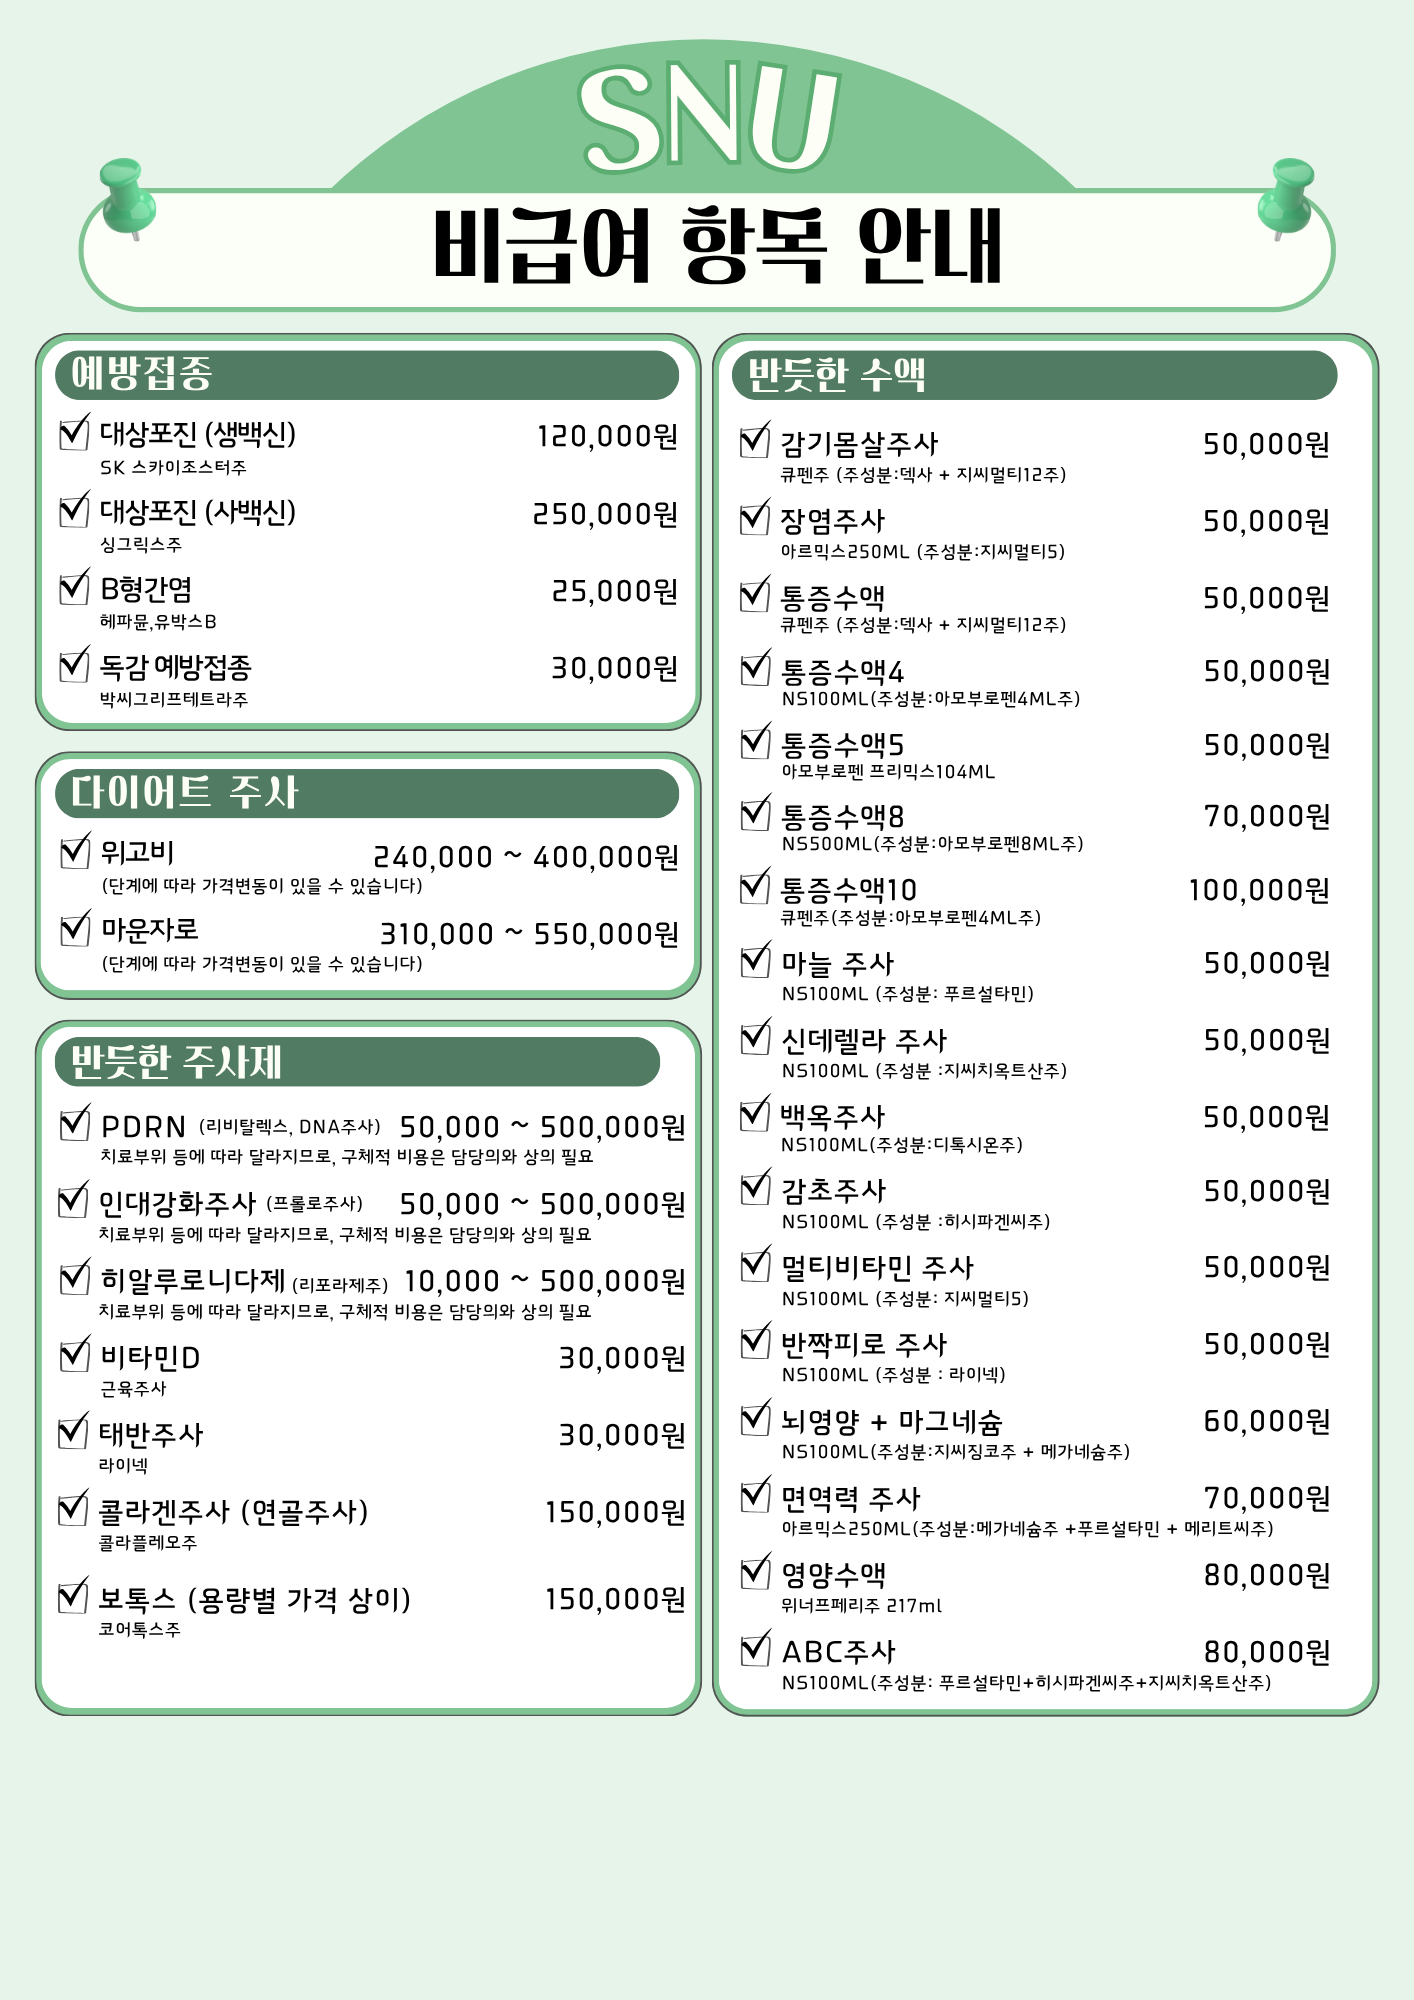
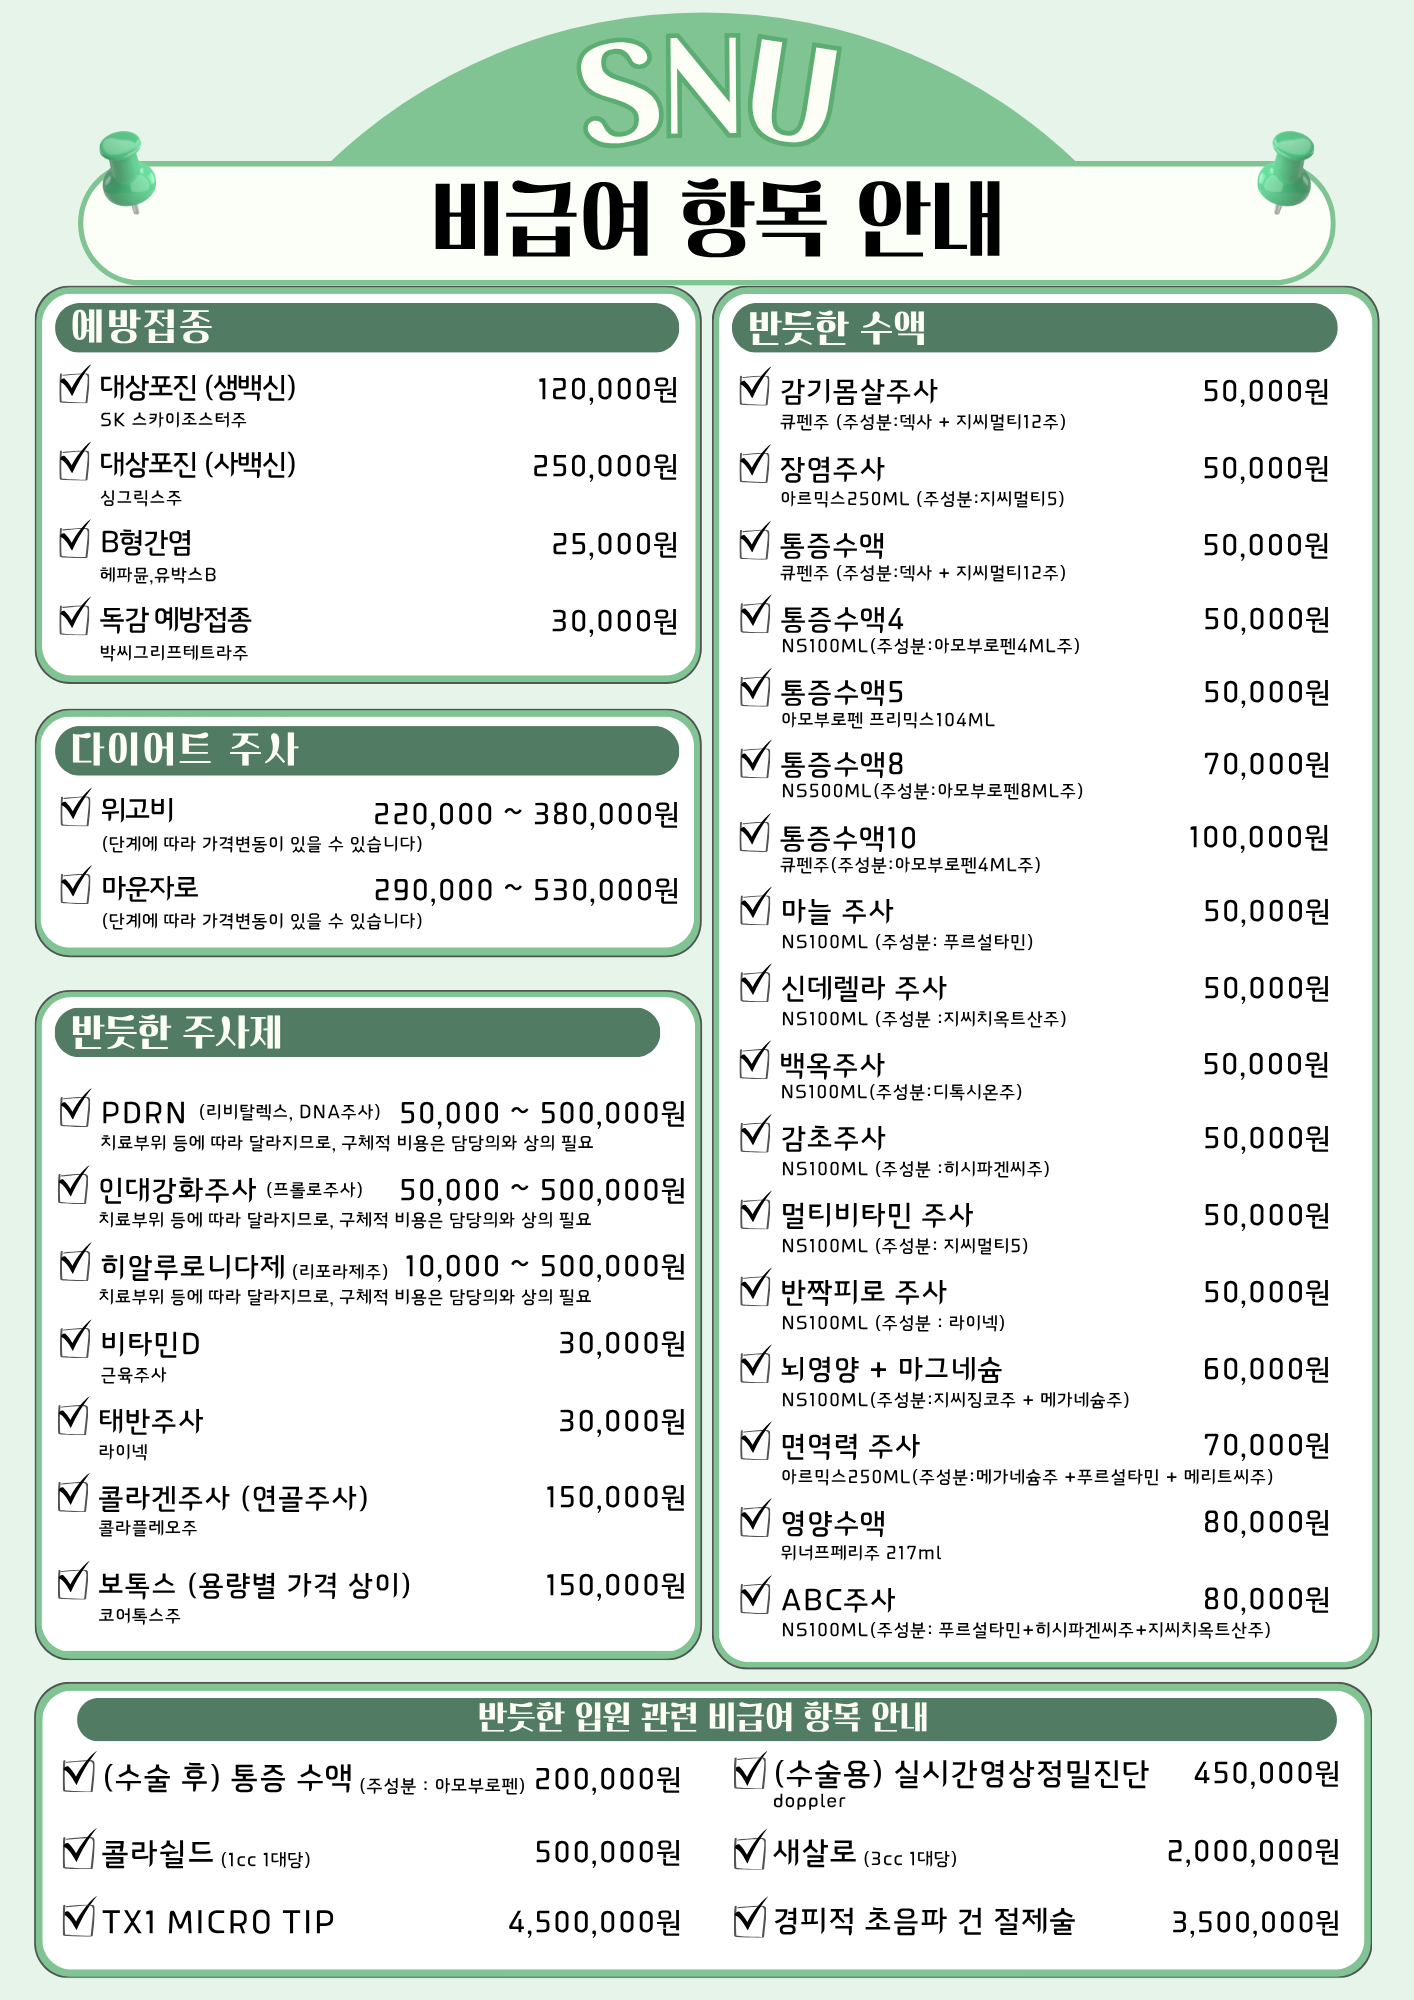
feat: 목 위생교육3 추가 + 서울대입구점 비급여항목안내 (2) 갱신
목 위생교육 슬라이더를 2장에서 3장으로 늘렸다(거북목 책상·의자 높이).
한/영 이미지 모두 받았다. 위생교육 그리드는 components/hygiene.html 과
components/stretch-guide.html 두 곳에 중복되어 있어 양쪽 다 고쳤다.
한쪽만 고치면 스트레칭 가이드에서는 3번째 장이 안 나온다.

서울대입구점 비급여항목안내 (2) 한글판을 갱신했다.
  위고비    240,000~400,000 -> 220,000~380,000
  마운자로  310,000~550,000 -> 290,000~530,000
  "반듯한 입원 관련 비급여 항목 안내" 6개 항목 신설

주의: 같은 장의 영문판(en/)은 아직 옛 가격이다. 영어로 보면 위고비·마운자로가
인하 전 금액으로 뜨고 입원 항목은 아예 없다. 영문판 교체가 필요하다.

BANNER_VER 20260828e -> 20260914.

diff --git a/components/stretch-guide.html b/components/stretch-guide.html
@@ -17,7 +17,7 @@
   <img class="stretch-banner" src="위생교육 배너.png" data-img="위생교육 배너.png" alt="위생교육 배너" loading="lazy">
 
   <div class="nav-buttons" id="hygieneGrid">
-    <div class="nav-item"><button class="nav-btn" data-ko="목 위생교육" data-en="Neck Health Education" data-i18n="true" onclick="openSliderViewer(this, this.textContent.trim(), ['목 위생교육.png','목 위생교육2.png'])">목 위생교육</button></div>
+    <div class="nav-item"><button class="nav-btn" data-ko="목 위생교육" data-en="Neck Health Education" data-i18n="true" onclick="openSliderViewer(this, this.textContent.trim(), ['목 위생교육.png','목 위생교육2.png','목 위생교육3.png'])">목 위생교육</button></div>
     <div class="nav-item"><button class="nav-btn" data-ko="무릎 위생교육" data-en="Knee Health Education" data-i18n="true" onclick="openSliderViewer(this, this.textContent.trim(), ['무릎 위생교육.png','무릎 위생교육2.png','무릎 위생교육3.png'])">무릎 위생교육</button></div>
     <div class="nav-item"><button class="nav-btn" data-ko="발 위생교육" data-en="Foot Health Education" data-i18n="true" onclick="openSliderViewer(this, this.textContent.trim(), ['발 위생교육.png','발 위생교육2.png'])">발 위생교육</button></div>
     <div class="nav-item"><button class="nav-btn" data-ko="팔꿈치 위생교육" data-en="Elbow Health Education" data-i18n="true" onclick="openSliderViewer(this, this.textContent.trim(), ['팔꿈치 위생교육.png','팔꿈치 위생교육2.png','팔꿈치 위생교육3.png'])">팔꿈치 위생교육</button></div>

diff --git a/components/hygiene.html b/components/hygiene.html
@@ -2,7 +2,7 @@
   <img class="stretch-banner" src="위생교육 배너.png" data-img="위생교육 배너.png" alt="위생교육 배너" loading="lazy">
 
   <div class="nav-buttons" id="hygieneGrid">
-    <div class="nav-item"><button class="nav-btn" data-ko="목 위생교육" data-en="Neck Health Education" data-i18n="true" onclick="openSliderViewer(this, this.textContent.trim(), ['목 위생교육.png','목 위생교육2.png'])">목 위생교육</button></div>
+    <div class="nav-item"><button class="nav-btn" data-ko="목 위생교육" data-en="Neck Health Education" data-i18n="true" onclick="openSliderViewer(this, this.textContent.trim(), ['목 위생교육.png','목 위생교육2.png','목 위생교육3.png'])">목 위생교육</button></div>
     <div class="nav-item"><button class="nav-btn" data-ko="무릎 위생교육" data-en="Knee Health Education" data-i18n="true" onclick="openSliderViewer(this, this.textContent.trim(), ['무릎 위생교육.png','무릎 위생교육2.png','무릎 위생교육3.png'])">무릎 위생교육</button></div>
     <div class="nav-item"><button class="nav-btn" data-ko="발 위생교육" data-en="Foot Health Education" data-i18n="true" onclick="openSliderViewer(this, this.textContent.trim(), ['발 위생교육.png','발 위생교육2.png'])">발 위생교육</button></div>
     <div class="nav-item"><button class="nav-btn" data-ko="팔꿈치 위생교육" data-en="Elbow Health Education" data-i18n="true" onclick="openSliderViewer(this, this.textContent.trim(), ['팔꿈치 위생교육.png','팔꿈치 위생교육2.png','팔꿈치 위생교육3.png'])">팔꿈치 위생교육</button></div>

diff --git a/js/i18n.js b/js/i18n.js
@@ -5,7 +5,7 @@
    ───────────────────────────────────────────── */
 
 /* 배너 캐시 버전: 배너 이미지를 같은 파일명으로 교체할 때마다 이 값을 올린다. */
-const BANNER_VER = '20260828e';
+const BANNER_VER = '20260914';
 
 const translationMap = {
   ko: {
